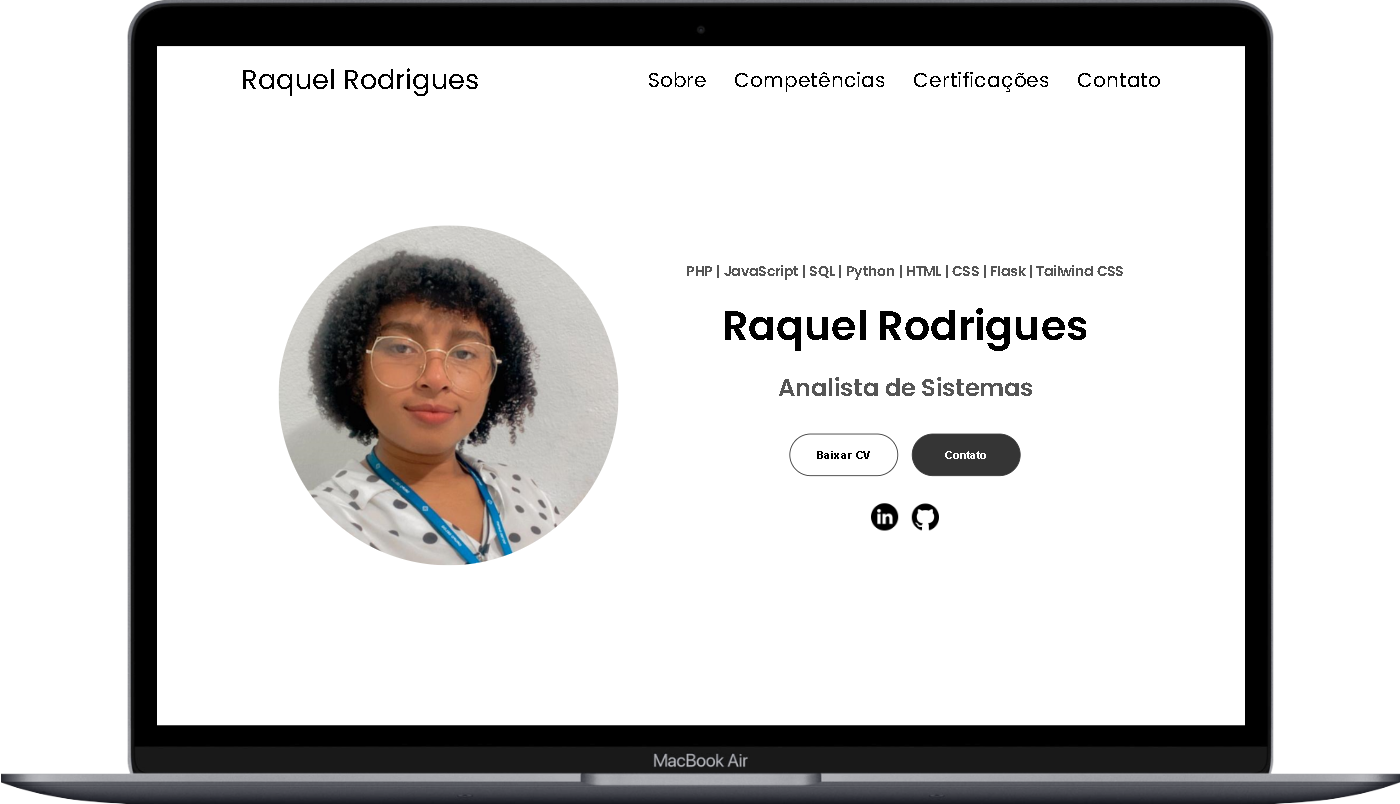
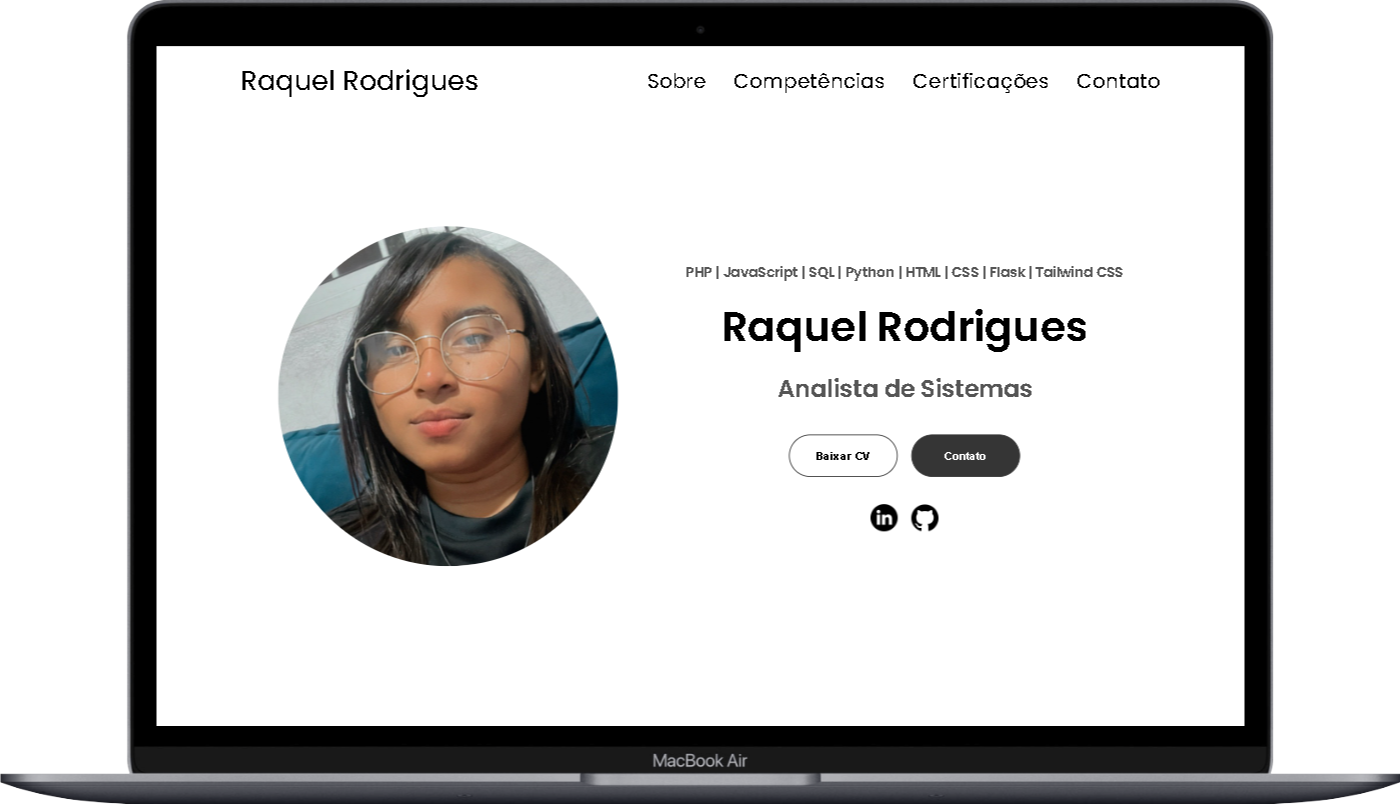
v05.01.2025

diff --git a/index.html b/index.html
@@ -63,7 +63,7 @@
   </nav>
   <section id="profile">
     <div class="section__pic-container">
-      <img src="./assets/profile-pic.png" alt="
+      <img src="./assets/profile-pic.jpeg" alt="
       Raquel Rodrigues profile picture" / style="border-radius: 50%;">
     </div>
     <div class="section__text" style="display: grid; row-gap: 1rem;">
@@ -102,14 +102,20 @@
     <br>
     <div class="section-container">
       <div class="section__pic-container">
-        <img src="./assets/about-pic.jpg" alt="Profile picture" class="about-pic" />
+        <img src="./assets/about-pic.png" alt="Profile picture" class="about-pic" />
       </div>
       <div class="about-details-container">
         <div class="text-container">
           <p>
-            Analista de Sistemas com formação em Técnica em Desenvolvimento de Sistemas e cursando atualmente Tecnólogo
-            em Análise e Desenvolvimento de Sistemas, comprometida em entregar trabalhos de alta qualidade e aberta a
-            feedbacks construtivos para aprimorar minhas habilidades.
+            Sou Analista de Sistemas no Grupo Gelog, com formação em Técnico de Desenvolvimento de Sistemas e atualmente
+            graduando em Análise e Desenvolvimento de Sistemas. Tenho experiência no desenvolvimento de soluções web,
+            com foco em Python, PHP e SQL Server, além de habilidades em identificar e corrigir erros em sistemas
+            através da análise de dados e bancos de dados.
+            <br><br>
+            Tenho familiaridade com a criação de relatórios em Crystal Reports e desenvolvimento de dashboards no Power
+            BI, ferramentas que valorizam para a otimização de processos e geração de insights. Busco sempre entregar
+            soluções eficientes, com atenção aos detalhes e capacidade de resolver desafios de forma ágil, mantendo um
+            compromisso contínuo com o aprendizado e a inovação.
           </p>
         </div>
       </div>
